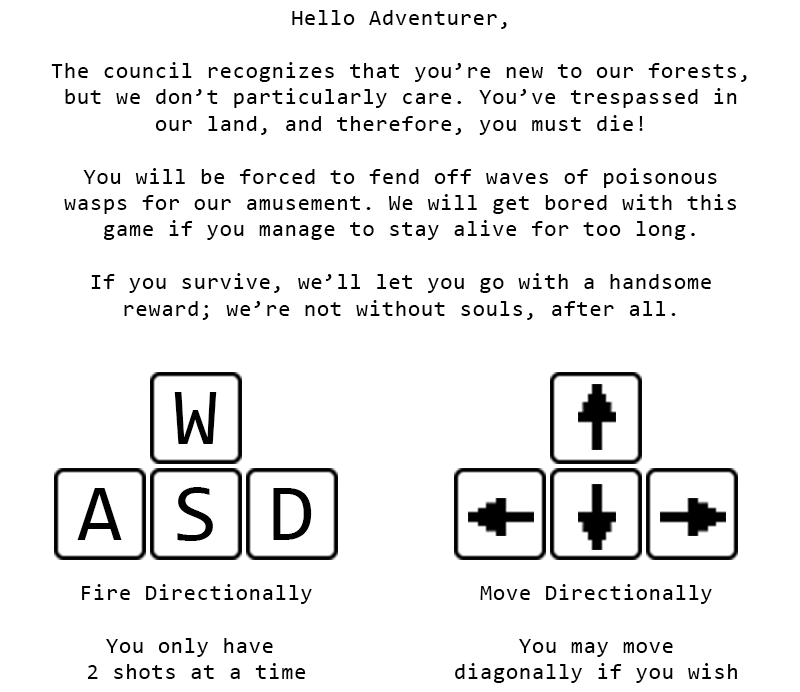
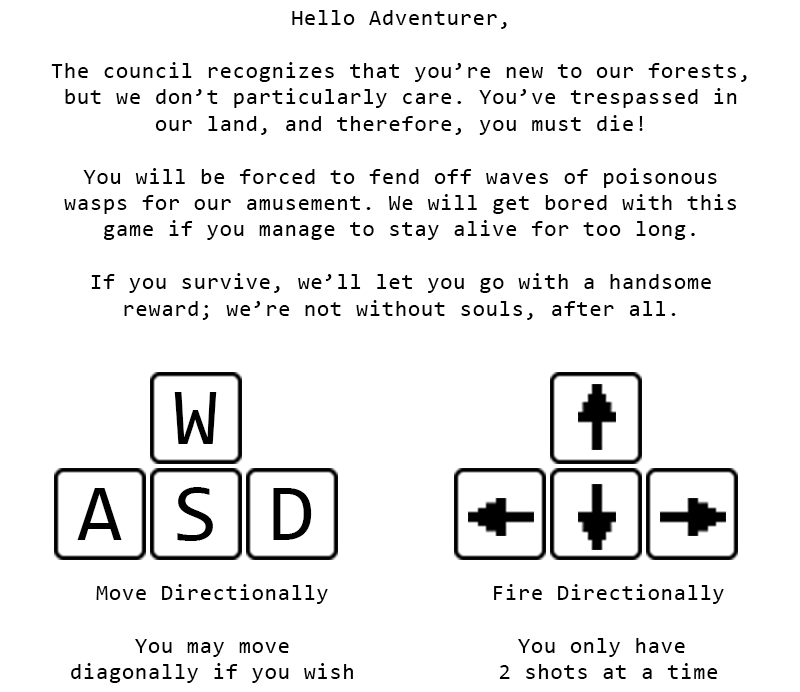
fixed the wave reset, changed controls around, fixed instruction image, changed volume settings

diff --git a/forest_rogue/roguelikeme.py b/forest_rogue/roguelikeme.py
@@ -13,6 +13,7 @@ from enemy import Enemy
 from audiomanager import AudioManager
 
 # Credits:
+# A lot of the base code is mocked from the Crash Course Python book
 # Laser Sprites: https://opengameart.org/content/lasers-and-beams
 # Player Character (Rogue): https://opengameart.org/content/animated-rogue
 # Background (slightly edited): https://opengameart.org/content/small-leaves-texture
@@ -89,34 +90,34 @@ class ForestRogue:
             pygame.mouse.set_visible(False)
             
     def _check_keydown_events(self, event):
-        if event.key == pygame.K_RIGHT:
+        if event.key == pygame.K_d:
             self.playerCharacter.moving_right = True
-        elif event.key == pygame.K_LEFT:
+        elif event.key == pygame.K_a:
             self.playerCharacter.moving_left = True
-        elif event.key == pygame.K_UP:
+        elif event.key == pygame.K_w:
             self.playerCharacter.moving_up = True
-        elif event.key == pygame.K_DOWN:
+        elif event.key == pygame.K_s:
             self.playerCharacter.moving_down = True
             
         elif event.key == pygame.K_q:
             sys.exit()
-        elif event.key == pygame.K_w:
+        elif event.key == pygame.K_UP:
             self._fire_in_direction('up')
-        elif event.key == pygame.K_a:
+        elif event.key == pygame.K_LEFT:
             self._fire_in_direction('left')
-        elif event.key == pygame.K_s:
+        elif event.key == pygame.K_DOWN:
             self._fire_in_direction('down')
-        elif event.key == pygame.K_d:
+        elif event.key == pygame.K_RIGHT:
             self._fire_in_direction('right')
 
     def _check_keyup_events(self, event):
-        if event.key == pygame.K_RIGHT:
+        if event.key == pygame.K_d:
             self.playerCharacter.moving_right = False
-        elif event.key == pygame.K_LEFT:
+        elif event.key == pygame.K_a:
             self.playerCharacter.moving_left = False
-        elif event.key == pygame.K_UP:
+        elif event.key == pygame.K_w:
             self.playerCharacter.moving_up = False
-        elif event.key == pygame.K_DOWN:
+        elif event.key == pygame.K_s:
             self.playerCharacter.moving_down = False
     
     def _fire_in_direction(self, direction):
@@ -158,16 +159,16 @@ class ForestRogue:
         # Reset game condition
         if self.sb.enemies_killed >= self.settings.level_threshold:
             self.sb.enemies_killed = 0
-            self.enemies.empty()
-            self.bullets.empty()
+            #self.enemies.empty()
+            #self.bullets.empty()
             
-            self._create_enemies()
+            #self._create_enemies()
             
             self.settings.increase_speed()
             
             if self.stats.level < self.settings.last_level:
                 self.stats.level += 1
-                self.sb.prep_level()
+                #self.sb.prep_level()
             else:
                 self.stats.game_active = False
 

diff --git a/forest_rogue/audiomanager.py b/forest_rogue/audiomanager.py
@@ -1,10 +1,17 @@
 import pygame
+import os
 
 class AudioManager():
     def __init__(self):
         self.ShootSound = pygame.mixer.Sound("sounds/laserBlast.flac")
+        pygame.mixer.Sound.set_volume(self.ShootSound, 0.2)
+        
         self.PlayerDeath = pygame.mixer.Sound("sounds/playerDeath.ogg")
-        pygame.mixer.music.load('sounds/forest.ogg')
+        pygame.mixer.Sound.set_volume(self.PlayerDeath, 0.4)
+        
+        self.base_track = pygame.mixer.Sound("sounds/forest.ogg")
+        pygame.mixer.Sound.set_volume(self.base_track, 0.1)
+        pygame.mixer.Sound.play(self.base_track)
     
     def playBlast(self):
         pygame.mixer.Sound.play(self.ShootSound)
@@ -13,4 +20,4 @@ class AudioManager():
         pygame.mixer.Sound.play(self.PlayerDeath)
         
     def playBackgroundMusic(self):
-        pygame.mixer.music.play(-1)
+        pygame.mixer.Sound.play(self.base_track, loops=-1)
